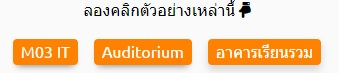
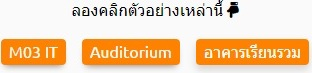
Crop some photo + fix HTML thing

Changed region(s): [[0.0, 0.4932, 1.0, 0.9589], [0.2308, 0.0, 0.7788, 0.2466], [0.1442, 0.5479, 0.1731, 0.5753]]

diff --git a/index.html b/index.html
@@ -28,13 +28,13 @@
     loadSidebar: true,
     loadNavbar: true,
     mergeNavbar: true,
-    subMaxLevel: 2,
+    subMaxLevel: 1,
     name: 'Panda User Manual',
     routerMode: 'history',
     search: {
       noData: {
-        '/th/': 'ไม่พบผลลัพธ์',
-        '/': 'No result'
+        '/th/': '× ไม่พบผลลัพธ์',
+        '/': '× No result'
       },
       paths: 'auto',
       placeholder: {

diff --git a/th/client/login.md b/th/client/login.md
@@ -1,7 +1,9 @@
 # วิธีเข้าสู่ระบบ
+
 ## ขั้นที่ 1 - กดปุ่มเข้าสู่ระบบ
 กดปุ่มเข้าสู่ระบบบนแถบนำทาง
 ![](../../img/navigation-bar/simple.png)
+
 ## ขั้นที่ 2 - เข้าสู่ระบบ
-กรอกข้อมูลรหัสนักศึกษา สจล. ในช่องเลขประจำตัว กรอกรหัสผ่านซึ่งเป็นรหัสเดียวกับอีเมลสถาบัน และกดปุ่มเข้าสู่ระบบ 
+กรอกข้อมูลรหัสนักศึกษา สจล. ในช่องเลขประจำตัว กรอกรหัสผ่านซึ่งเป็นรหัสเดียวกับอีเมลสถาบัน และกดปุ่มเข้าสู่ระบบ
 ![](../../img/Screen%20Shot%202018-04-19%20at%2009.07.15.png)

diff --git a/th/_sidebar.md b/th/_sidebar.md
@@ -7,6 +7,7 @@
   * [ยกเลิกการขอใช้สถานที่](/th/client/cancel-a-request.md)
 
   * [แจ้งปัญหาของสถานที่](/th/client/report-a-problem.md)
+  
   * [วิธีเข้าสู่ระบบ](/th/client/login.md)
   * [วิธีออกจากระบบ](/th/client/logout.md)
 

diff --git a/th/_coverpage.md b/th/_coverpage.md
@@ -6,5 +6,3 @@ Version 1.0 <small>beta 1</small>
 [English](/)
 [เรื่มต้นใช้งาน](/th/client/search-for-space.md)
 [เว็บไซต์](https://space.itforge.io)
-
-<!-- background color -->
